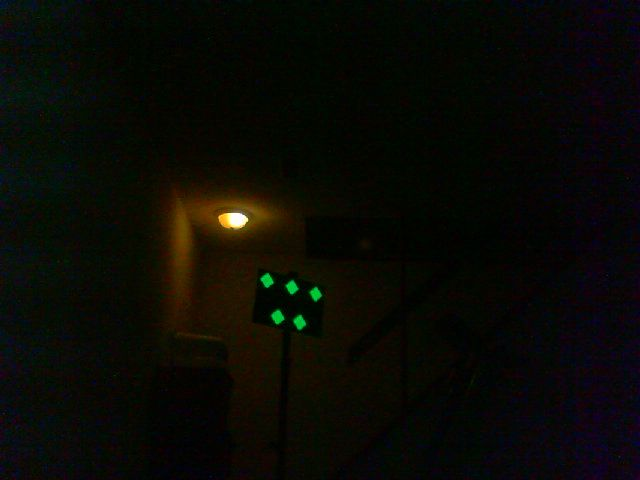
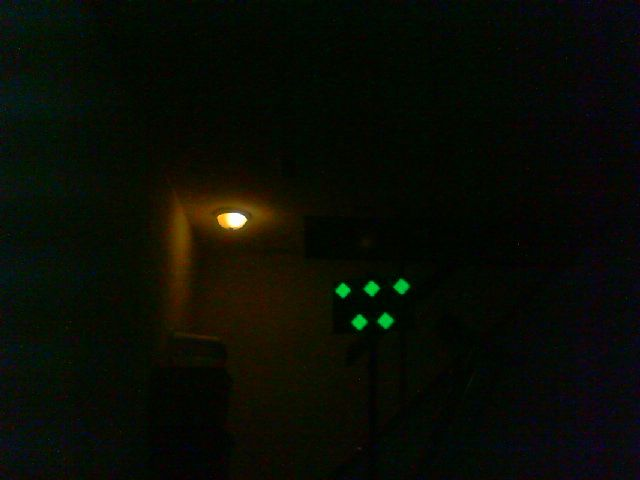
setup for series 4B

diff --git a/FindStaticElement.py b/FindStaticElement.py
@@ -22,6 +22,7 @@ except ImportError:
 #    [11.1712598*1.5, 0.0, 0.0], #Right most Point
 #    ])
 
+# these are for the Sketchup targets and proposed full sized target
 real_world_coordinates = np.array([
     [-11.1712598, 0.0, 0.0], # Left most Point
     [11.1712598, 0.0, 0.0], # Right most Point
@@ -29,21 +30,41 @@ real_world_coordinates = np.array([
     [0.0, -6.17125984, 0.0], # Bottom most Point
     ]) 
 
-# temporary testing on half size target
+# these are for testing and in the x folder
+
+#-C -> a squished diamond defined by four squares
 real_world_coordinates = np.array([ 
-    [-5.5625, 0.0, 0.0], # Left most Point
-    [5.5625, 0.0, 0.0], # Right most Point
-    [0.0, 3.0625, 0.0], # Top most point
-    [0.0, -3.0625, 0.0], # Bottom most Point
+    [-5.5625, 3.0, 0.0], # Left most Point
+    [5.5625, 3.0, 0.0], # Right most Point
+    [0.0, 0.0, 0.0], # Top most point
+    [0.0, 6.125, 0.0], # Bottom most Point
     ]) 
 
-# temporary testing on half size target
-#real_world_coordinates = np.array([ 
-#    [-5.5625, 0.0, 0.0], # Left most Point
-#    [2.375, -6.125, 0.0], # Right most Point
-#    [0.0, 0.0, 0.0], # Top most point
-#    [-2.375, -6.125, 0.0], # Bottom most Point
-#    ]) 
+#-D -> drop a corner from the W rather than the center
+real_world_coordinates = np.array([ 
+    [-5.5625, 0.0, 0.0], # Upper left point
+    [0.0, 0.0, 0.0], # Upper center point
+    [-2.5, 6.125, 0.0], # Bottom left point
+    [2.5, 6.125, 0.0], # Bottom right point
+    ])
+
+#-A -> an M as in Merge
+real_world_coordinates = np.array([ 
+    [-2.5, 0.0, 0.0], # Upper left point
+    [2.5, 0.0, 0.0], # Upper right point
+    [-5.5625, 6.125, 0.0], # Bottom left point
+    #[0.0, 6.125, 0.0], # Bottom center point
+    [5.5625, 6.125, 0.0], # Bottom right point
+    ])
+
+#-B -> the above target upside down, a W, drop upper center for four
+real_world_coordinates = np.array([ 
+    [-5.5625, 0.0, 0.0], # Upper left point
+    #[0.0, 0.0, 0.0], # Upper center point
+    [5.5625, 0.0, 0.0], # Upper right point
+    [-2.5, 6.125, 0.0], # Bottom left point
+    [2.5, 6.125, 0.0], # Bottom right point
+    ])
 
 # Finds the static elements from the masked image and displays them on original stream + network tables
 def findStaticElements(frame, mask, StaticElementMethod, MergeVisionPipeLineTableName):
@@ -84,8 +105,6 @@ def findStaticElements(frame, mask, StaticElementMethod, MergeVisionPipeLineTabl
     # Shows the contours overlayed on the original video
     return image
 
-
-
 def findTvecRvec(image, outer_corners, real_world_coordinates):
     # Read Image
     #size = image.shape
@@ -94,34 +113,35 @@ def findTvecRvec(image, outer_corners, real_world_coordinates):
  
     #focal_length = size[1]
     #center = (size[1]/2, size[0]/2)
-    # camera_matrix = np.array(
-    #                      [[H_FOCAL_LENGTH, 0, center[0]],
-    #                      [0, V_FOCAL_LENGTH, center[1]],
-    #                      [0, 0, 1]], dtype = "double"
-    #                      )
+    #camera_matrix = np.array(
+    #                    [[H_FOCAL_LENGTH, 0, center[0]],
+    #                    [0, V_FOCAL_LENGTH, center[1]],
+    #                    [0, 0, 1]], dtype = "double"
+    #                    )
 
-    #dist_coeffs = np.array([[0.16171335604097975, -0.9962921370737408, -4.145368586842373e-05, 
-    #                         0.0015152030328047668, 1.230483016701437]])
+    camera_matrix = np.array([[676.9254672222575, 0.0, 303.8922263320326], 
+                              [0.0, 677.958895098853, 226.64055316186037], 
+                              [0.0, 0.0, 1.0]], dtype = "double")
+    
+    dist_coeffs = np.array([[0.16171335604097975, -0.9962921370737408, -4.145368586842373e-05, 
+                             0.0015152030328047668, 1.230483016701437]])
 
-    #camera_matrix = np.array([[676.9254672222575, 0.0, 303.8922263320326], 
-    #                          [0.0, 677.958895098853, 226.64055316186037], 
-    #                          [0.0, 0.0, 1.0]], dtype = "double")
-    camera_matrix = np.array([
-        [272.36049320004605, 0.0, 157.62816826544375], 
-        [0.0, 257.46612122321454, 98.90302088583047],
-        [0.0, 0.0, 1.0]
-        ], dtype = 'double')
+    #camera_matrix = np.array([
+    #    [272.36049320004605, 0.0, 157.62816826544375], 
+    #    [0.0, 257.46612122321454, 98.90302088583047],
+    #    [0.0, 0.0, 1.0]
+    #    ], dtype = 'double')
 
-    dist_coeffs = np.array([
-        [1.5298022258256136, -17.6800174425778, 0.05117671205418792, -0.04020311562261712, 44.20234463669946]
-        ], dtype = 'double')
+    #dist_coeffs = np.array([
+    #    [1.5298022258256136, -17.6800174425778, 0.05117671205418792, -0.04020311562261712, 44.20234463669946]
+    #    ], dtype = 'double')
 
     #print("Camera Matrix :\n {0}".format(camera_matrix))                           
  
     #dist_coeffs = np.zeros((4,1)) # Assuming no lens distortion
     #(success, rotation_vector, translation_vector) = cv2.solvePnP(real_world_coordinates, outer_corners, camera_matrix, dist_coeffs)
-    #(success, rotation_vector, translation_vector) = cv2.solvePnP(real_world_coordinates, outer_corners, camera_matrix, dist_coeffs, flags=cv2.SOLVEPNP_AP3P)
-    (success, rotation_vector, translation_vector) = cv2.solvePnP(real_world_coordinates, outer_corners, camera_matrix, dist_coeffs, flags=cv2.SOLVEPNP_ITERATIVE)
+    (success, rotation_vector, translation_vector) = cv2.solvePnP(real_world_coordinates, outer_corners, camera_matrix, dist_coeffs, flags=cv2.SOLVEPNP_AP3P)
+    #(success, rotation_vector, translation_vector) = cv2.solvePnP(real_world_coordinates, outer_corners, camera_matrix, dist_coeffs, flags=cv2.SOLVEPNP_ITERATIVE)
     #success, rvec, tvec = cv2.solvePnP(real_world_coordinates, outer_corners, camera_matrix, dist_coeffs, rvec, tvec, flags=cv2.SOLVEPNP_ITERATIVE)
 
 
@@ -141,8 +161,8 @@ def compute_output_values(rvec, tvec):
 
     # The tilt angle only affects the distance and angle1 calcs
     # This is a major impact on calculations
-    tilt_angle = math.radians(0)
-    distScaleFactor = 2.5
+    tilt_angle = math.radians(26.18)
+    distScaleFactor = 1.028
 
     # https://answers.opencv.org/question/86879/rotating-target-changes-distances-computed-with-solvepnp/
     xo = tvec[0][0]
@@ -180,7 +200,13 @@ def compute_output_values(rvec, tvec):
     angle2InDegrees = math.degrees(angle2InRad)
 
     #calculate RobotYawToDiamond based on Robot offset (subtract 180 degrees)
-    angle2 = 180-abs(angle2InDegrees)
+    print('raw angle2 in degrees', angle2InDegrees)
+    
+    if angle2InDegrees < 0:
+        angle2 = 180 + angle2InDegrees
+    else:
+        angle2 = -(180 - angle2InDegrees)
+    #angle2 = 180-abs(angle2InDegrees)
     print('angle2', angle2)
 
     #Test LC Method for Yaw
@@ -253,7 +279,7 @@ def findDiamond(contours, image, centerX, centerY, mask, StaticElementMethod, Me
 
     if len(contours) >= 1:
         # Sort contours by area size (biggest to smallest)
-        cntsSorted = sorted(contours, key=lambda x: cv2.contourArea(x), reverse=True)[:4] # 4 is a cheat
+        cntsSorted = sorted(contours, key=lambda x: cv2.contourArea(x), reverse=True)[:5] # 4 is a cheat
     
         cntsFiltered = []
         centroidDiamonds = []
@@ -292,7 +318,7 @@ def findDiamond(contours, image, centerX, centerY, mask, StaticElementMethod, Me
 
             # We will work on the filtered contour with the largest area which is the
             # first one in the list
-            if (len(cntsFiltered) == 4):
+            if (len(cntsFiltered) >= 4):
                 #print("Length of cntsFiltered:"+str(len(cntsFiltered)))
 
                 for c in cntsFiltered:
@@ -304,7 +330,7 @@ def findDiamond(contours, image, centerX, centerY, mask, StaticElementMethod, Me
                         cx, cy = 0, 0
 
                     #print('centroid = ', cx,cy)
-                    #cv2.drawContours(image, [c], -1, (36,145,232), 2)
+                    cv2.drawContours(image, [c], -1, (36,145,232), 2)
                     centroidDiamonds.append((cx,cy))
 
                 #print('Original Centroid Diamond: ', centroidDiamonds)
@@ -312,13 +338,14 @@ def findDiamond(contours, image, centerX, centerY, mask, StaticElementMethod, Me
                 #print('Centroid Diamonds sorted by x: ', centroidDiamonds)
 
                 leftmost = centroidDiamonds[0]
-                rightmost = centroidDiamonds[3]
+                rightmost = centroidDiamonds[4]
 
                 #centroidDiamonds.sort(key = operator.itemgetter(1))
                 #print('Centroid DIamonds sorted by y: ', centroidDiamonds)
 
-                bottommost = centroidDiamonds[1]
-                topmost = centroidDiamonds[2]
+                leftother = centroidDiamonds[1]
+                centerother = centroidDiamonds[2]
+                rightother = centroidDiamonds[3]
 
                 #print('leftmost: ', leftmost)
                 #print('rightmost: ', rightmost)
@@ -333,8 +360,8 @@ def findDiamond(contours, image, centerX, centerY, mask, StaticElementMethod, Me
                 outer_corners = np.array([
                                             leftmost,
                                             rightmost,
-                                            topmost,
-                                            bottommost
+                                            leftother,
+                                            rightother
                                         ], dtype="double") 
 
                 if (foundCorners):
@@ -348,8 +375,8 @@ def findDiamond(contours, image, centerX, centerY, mask, StaticElementMethod, Me
                     #print('bottommost:', bottommost)
                     #print('cy',(topmost[1]+bottommost[1])/2)
 
-                    cx = int((leftmost[0]+rightmost[0])/2)
-                    cy = int((topmost[1]+bottommost[1])/2)
+                    cx = int(centroidDiamonds[2][0])
+                    cy = int(centroidDiamonds[2][1])
 
                     YawToDiamond = calculateYaw(cx, centerX, H_FOCAL_LENGTH)
                                         
@@ -359,8 +386,8 @@ def findDiamond(contours, image, centerX, centerY, mask, StaticElementMethod, Me
 
                         cv2.putText(image, "ComputeAngle1: " + str(angle1), (40, 140), cv2.FONT_HERSHEY_COMPLEX, 0.6,white)
                         cv2.putText(image, "ComputeAngle2: " + str(angle2), (40, 160), cv2.FONT_HERSHEY_COMPLEX, 0.6,white)
-                        cv2.putText(image, "Distance: " + str(distance), (40, 180), cv2.FONT_HERSHEY_COMPLEX, 0.6,white)                        
-                        cv2.putText(image, "Distanceo: " + str(distanceo), (40, 200), cv2.FONT_HERSHEY_COMPLEX, 0.6,white)                                                
+                        cv2.putText(image, "Distance: " + str(distance/12), (40, 180), cv2.FONT_HERSHEY_COMPLEX, 0.6,white)                        
+                        cv2.putText(image, "Distanceo: " + str(distanceo/12), (40, 200), cv2.FONT_HERSHEY_COMPLEX, 0.6,white)                                                
                         cv2.putText(image, "DiamondYaw: " + str(YawToDiamond), (20, 400), cv2.FONT_HERSHEY_COMPLEX, 1.0,white)
                         cv2.putText(image, "Distance: " + str(round((distance/12),2)), (20, 460), cv2.FONT_HERSHEY_COMPLEX, 1.0,white)
                         #cv2.putText(image, "RobotYawToDiamond: " + str(round(RobotYawToDiamond,2)), (40, 420), cv2.FONT_HERSHEY_COMPLEX, .6,white)
@@ -451,16 +478,19 @@ if __name__ == "__main__":
     imageCounter = 0
 
     # create empty bgr image for the test
-    bgrTestImage = np.zeros(shape=[240, 320, 3], dtype=np.uint8)
+    #bgrTestImage = np.zeros(shape=[240, 320, 3], dtype=np.uint8)
 
     # draw a green diamond on the test image
-    pts = np.array([[200,60],[250,110],[200,160],[150,110]], np.int32)
-    bgrTestImage = cv2.drawContours(bgrTestImage,[pts],0,(0,255,0), -1)
+    #pts = np.array([[200,60],[250,110],[200,160],[150,110]], np.int32)
+    #bgrTestImage = cv2.drawContours(bgrTestImage,[pts],0,(0,255,0), -1)
 
-    pts = np.array([[200,80],[230,110],[200,140],[170,110]], np.int32)
-    bgrTestImage = cv2.drawContours(bgrTestImage,[pts],0,(0,0,0), -1)
+    #pts = np.array([[200,80],[230,110],[200,140],[170,110]], np.int32)
+    #bgrTestImage = cv2.drawContours(bgrTestImage,[pts],0,(0,0,0), -1)
 
-    bgrTestImage = cv2.imread('2021-irahFourDTest/centroidYawIssue.jpg')
+    #bgrTestImage = cv2.imread('2021-irah4D-51T-16C/4A-04f-left.jpg')
+    bgrTestImage = cv2.imread('2021-irah4D-51T-16C/4B-10f-center.jpg')
+    #bgrTestImage = cv2.imread('2021-irah4D-51T-16C/4C-04f-left.jpg')
+    #bgrTestImage = cv2.imread('2021-irah4D-51T-16C/4D-04f-left.jpg')
 
     # display the test image to verify it visually
     #cv2.imshow('This is the test image', bgrTestImage)
@@ -469,7 +499,7 @@ if __name__ == "__main__":
     hsvTestImage = cv2.cvtColor(bgrTestImage, cv2.COLOR_BGR2HSV)
 
     # using inrange from opencv make mask
-    mskBinary = cv2.inRange(hsvTestImage,  (0, 100, 100), (65, 255, 255),)
+    mskBinary = cv2.inRange(hsvTestImage,  (65, 50, 50), (95, 255, 255),)
 
     # display the mask to verify it visually
     #cv2.imshow('This is the mask', mskBinary)

diff --git a/MergeViewer.py b/MergeViewer.py
@@ -73,7 +73,7 @@ def load_images_from_folder(folder):
     imagename = []
     for filename in sorted(os.listdir(folder)):
         img = cv2.imread(os.path.join(folder,filename))
-        if img is not None:
+        if img is not None and filename[:2] == '4B':
             images.append(img)
             imagename.append(filename)
     return images, imagename
@@ -105,7 +105,7 @@ else:  # implies images are to be read
     #images, imagename = load_images_from_folder("./OuterTargetRingTest")
     #images, imagename = load_images_from_folder("./OuterTargetLiger")
     #images, imagename = load_images_from_folder("./2021-irahTapeTesting")
-    images, imagename = load_images_from_folder("./2021-irahFourDiamonds")
+    images, imagename = load_images_from_folder("./2021-irah4D-51T-16C")
 
 
     # finds height/width of camera frame (eg. 640 width, 480 height)
